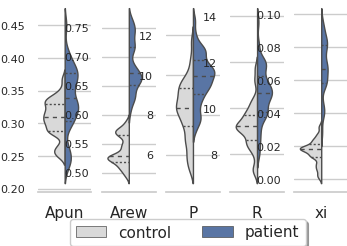
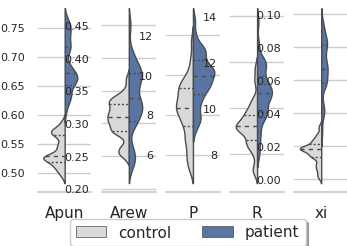
run combined

diff --git a/power_bandit4arm_combined.py b/power_bandit4arm_combined.py
@@ -194,7 +194,7 @@ if __name__ == "__main__":
 
     # fit stan model
     sm = pystan.StanModel(file='bandit4arm_combLR_lapse_decay_b.stan')
-    fit = sm.sampling(data=data_dict, iter=2000, chains=4)
+    fit = sm.sampling(data=data_dict, iter=2000, chains=1)
     print(fit)
 
     # saving
@@ -205,19 +205,5 @@ if __name__ == "__main__":
     with open(sfile, 'wb') as op:
         tmp = { k: v for k, v in extracted.items() if k in pars } # dict comprehension
         pickle.dump(tmp, op)
-
-
-    # # fit
-    # # Run the model and store results in "output"
-    # output = bandit4arm_lapse('./tmp_output/bandit_combined_sim/'+model_name+'_'+group_name+'_'+str(seed_num)+'.txt', niter=3000, nwarmup=1500, nchain=4, ncore=16)
-    
-    # # debug
-    # print(output.fit)
-
-    # # saving
-    # sfile = './tmp_output/bandit_combined_sim/'+group_name+'_sim_'+str(seed_num)+'.pkl'
-    # with open(sfile, 'wb') as op:
-    #     tmp = { k: v for k, v in output.par_vals.items() if k in ['mu_Arew', 'mu_Apun', 'mu_R', 'mu_P', 'mu_xi'] } # dict comprehension
-    #     pickle.dump(tmp, op)
 
 

diff --git a/compare_hdi.py b/compare_hdi.py
@@ -300,6 +300,8 @@ if __name__ == "__main__":
 
     if model_name == 'bandit':
         param_ls = ['mu_Arew', 'mu_Apun', 'mu_R', 'mu_P', 'mu_xi']
+    elif model_name == 'bandit_combined':
+        param_ls = ['mu_Arew', 'mu_Apun', 'mu_R', 'mu_P', 'mu_xi', 'mu_d']
     elif model_name == 'generalise':
         param_ls = ['mu_sigma_a', 'mu_sigma_n', 'mu_eta', 'mu_kappa', 'mu_beta', 'mu_bias']
     elif model_name == 'motoradapt':
@@ -308,5 +310,5 @@ if __name__ == "__main__":
         print('model must be bandit or generalise.')
     n_perm = 1000
     # comp_hdi_mean(model_name, param_ls, sort=False, draw_idx=30, draws=n_perm)
-    # plot_violin_params(f'./figs/{model_name}/params.csv', model_name, n_perm=n_perm)
-    plot_hdi_permutations(f'./figs/{model_name}/params.csv', model_name, n_perm)
+    plot_violin_params(f'./figs/{model_name}/params.csv', model_name, n_perm=n_perm)
+    # plot_hdi_permutations(f'./figs/{model_name}/params.csv', model_name, n_perm)
